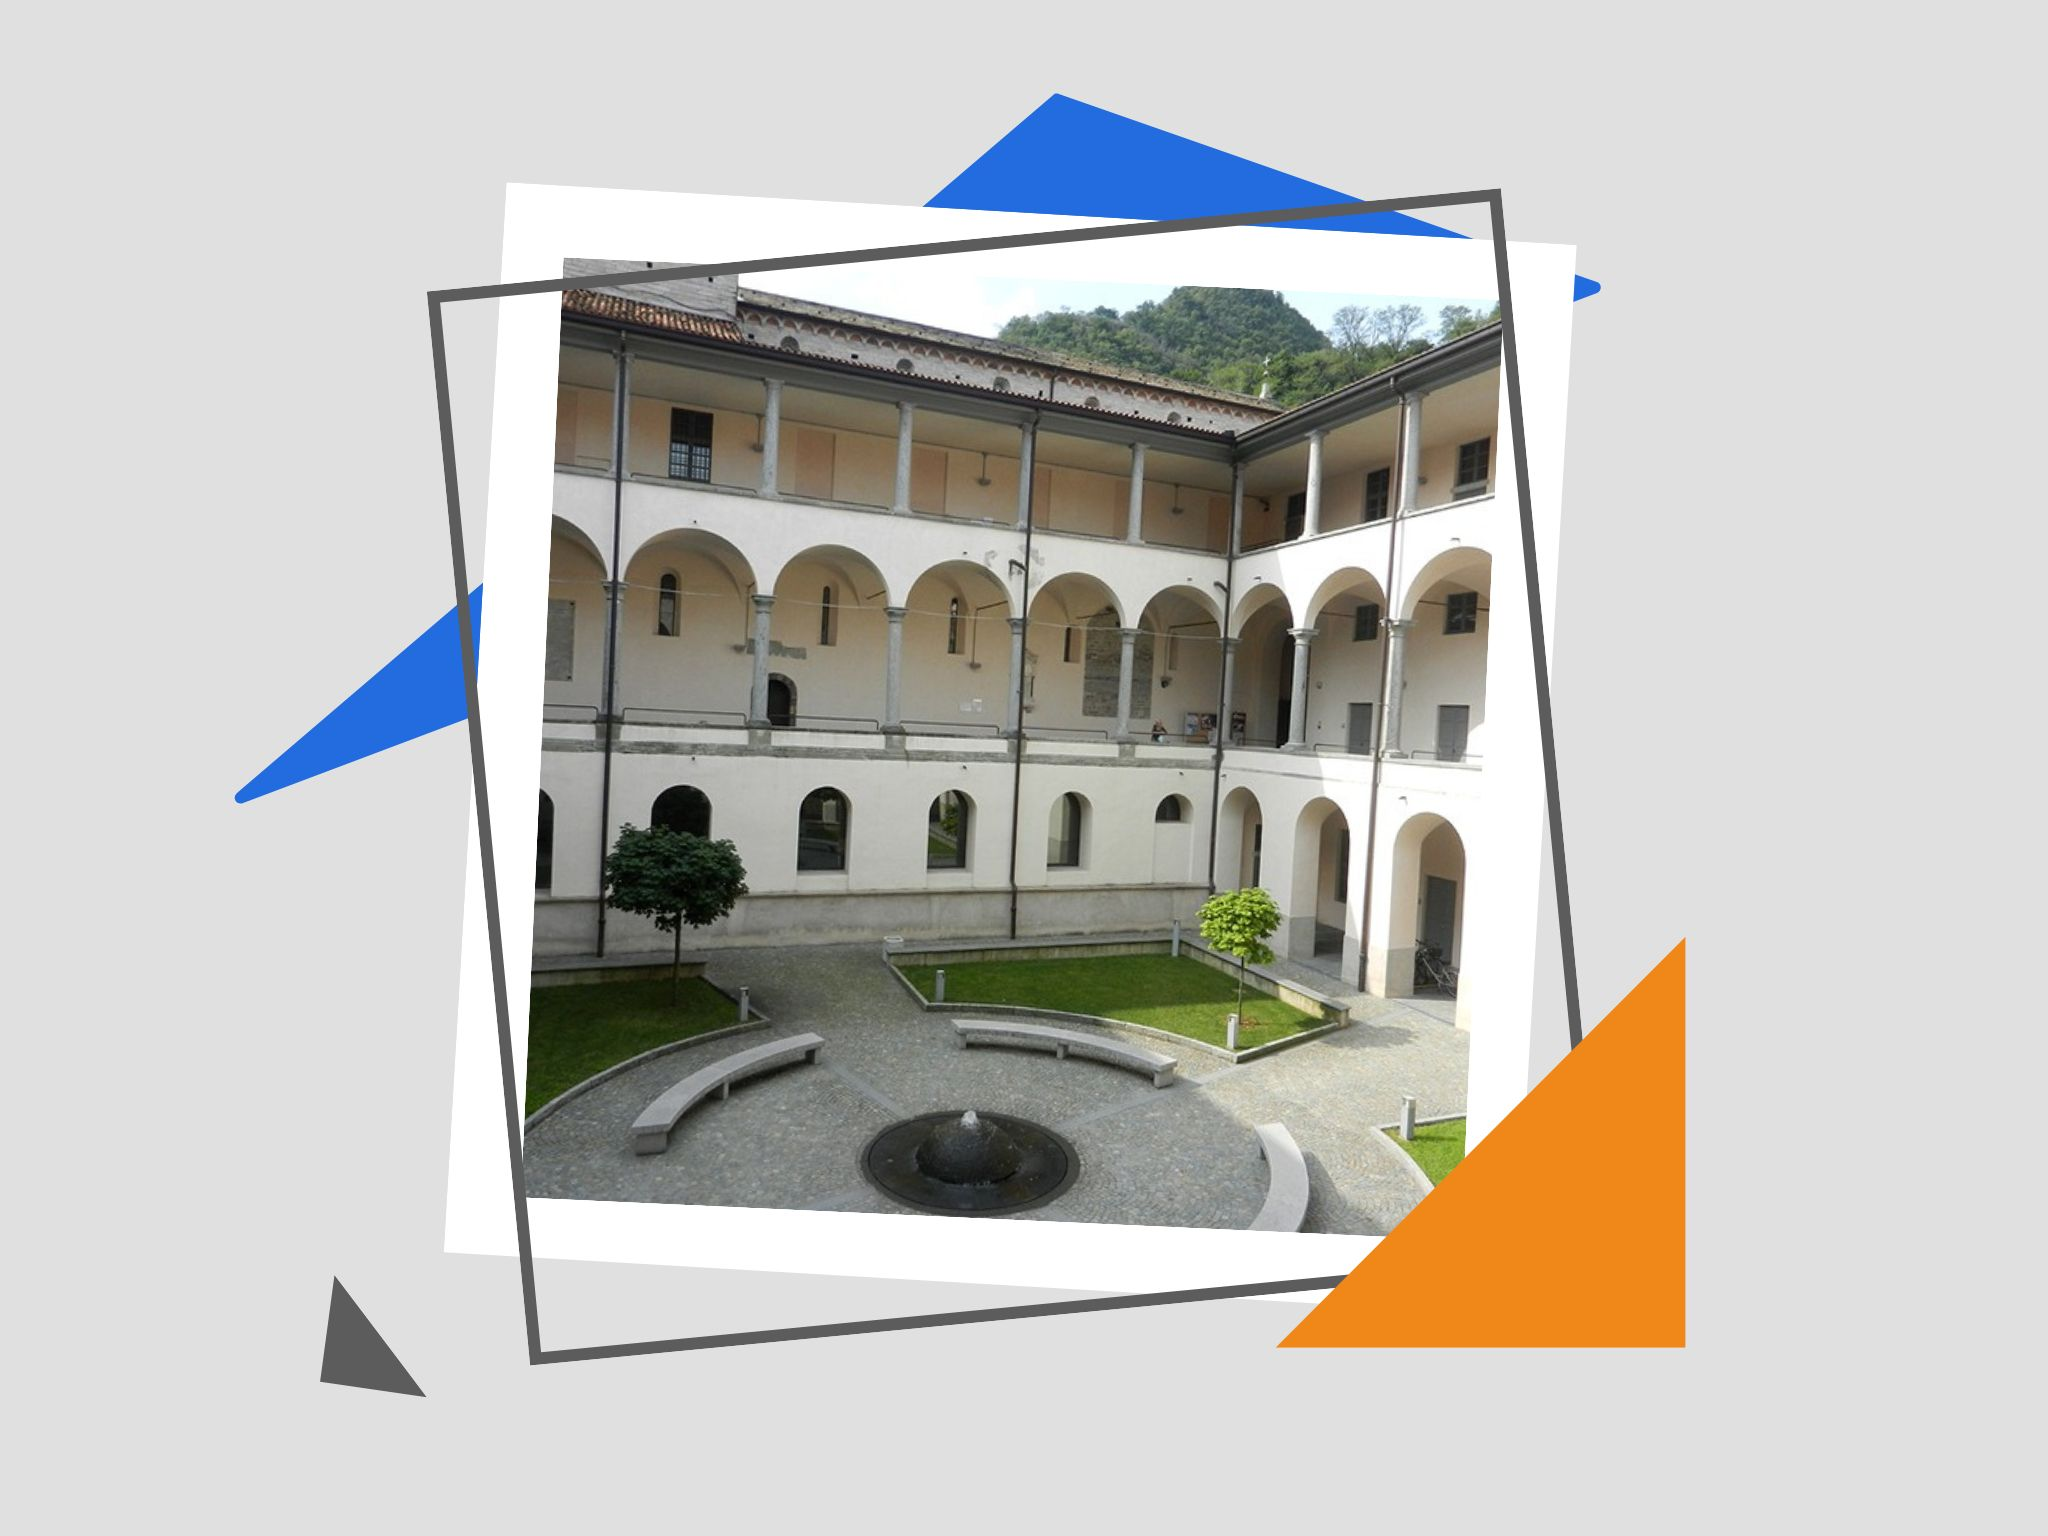
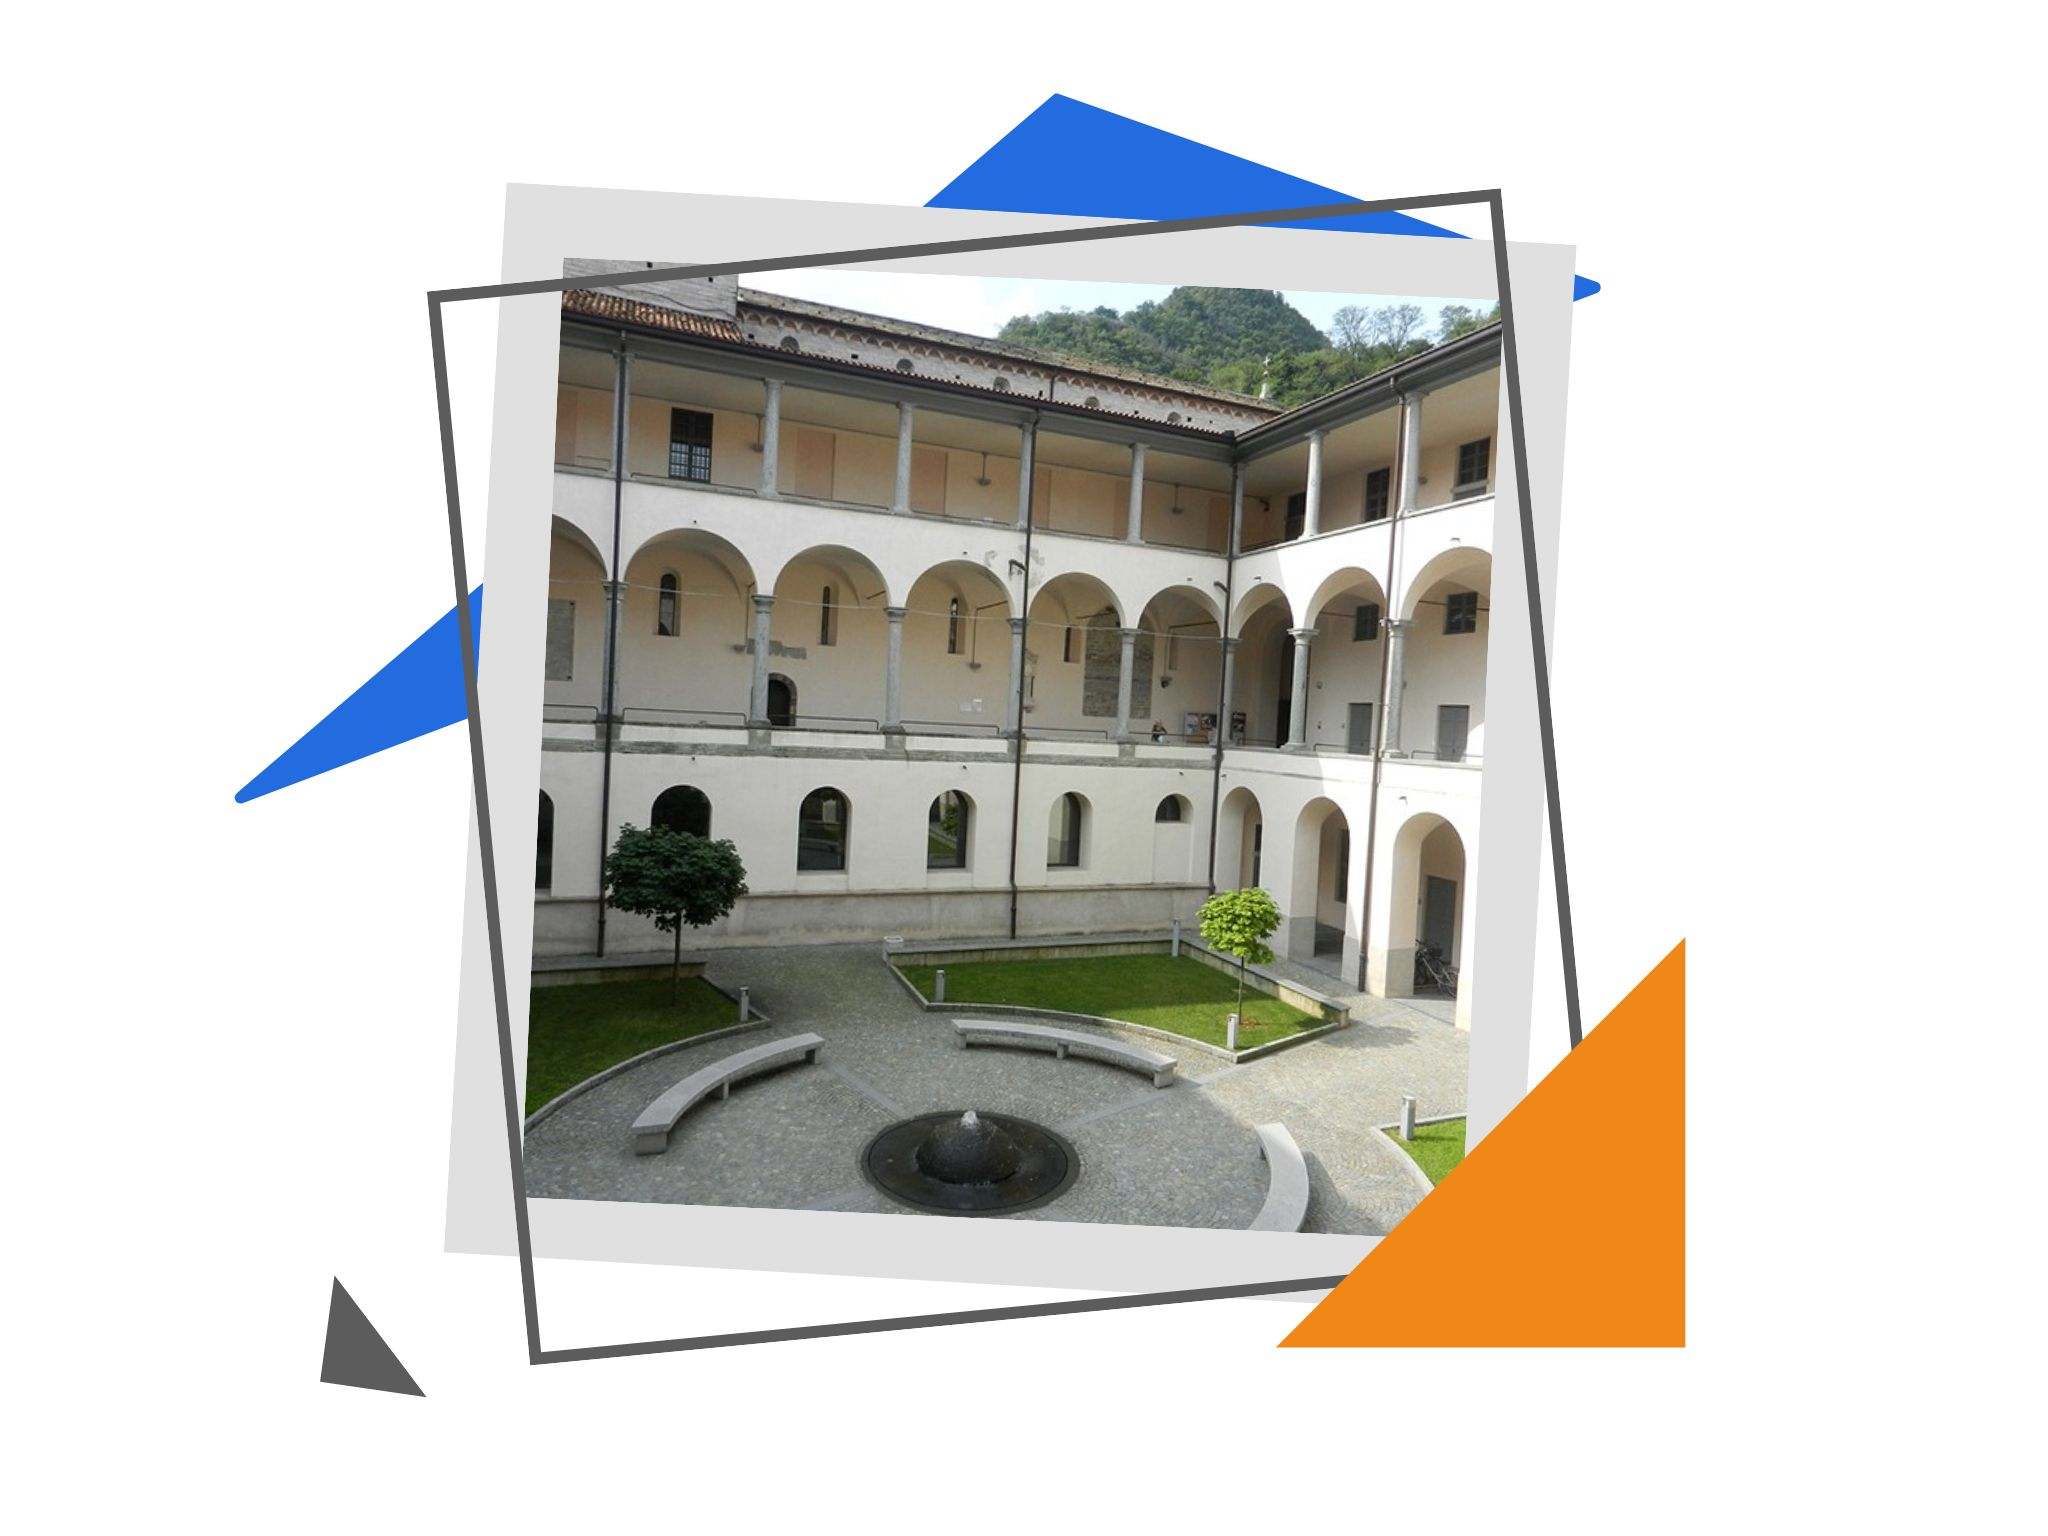
feat: new img and colors

diff --git a/innovazione.11ty.js b/innovazione.11ty.js
@@ -34,13 +34,13 @@ module.exports = class {
             </section>
 
             <!-- counter gradient -->
-            <section class="pt-5 py-5 bg-grad all-text-white">
+            <section class="pt-5 py-5 bg-light">
                 <div class="container">
                     <div class="row">
                         <!-- count item -->
                         <div class="col-md-4 col-6 mb-4 mb-md-0">
                             <div class="text-center">
-                                <i class="display-6 ti-write"></i>
+                                <i class="text-grad display-6 ti-write"></i>
                                 <h2 class="fw-bold mt-2 mb-0 purecounter"  data-purecounter-start="0" data-purecounter-delay="10" data-purecounter-duration="1" data-purecounter-end="5257">0</h2>
                                 <p class="mb-0">Linee di codice</p>
                             </div>
@@ -48,7 +48,7 @@ module.exports = class {
                         <!-- count item -->
                         <div class="col-md-4 col-6 mb-4 mb-md-0">
                             <div class="text-center">
-                                <i class="display-6 ti-marker"></i>
+                                <i class="text-grad display-6 ti-marker"></i>
                                 <h2 class="fw-bold mt-2 mb-0 purecounter" data-purecounter-start="0" data-purecounter-delay="10" data-purecounter-duration="1" data-purecounter-end="13">0</h2>
                                 <p class="mb-0">Progetti di tesi</p>
                             </div>
@@ -56,7 +56,7 @@ module.exports = class {
                         <!-- count item -->
                         <div class="col-md-4 col-6 mb-4 mb-md-0">
                             <div class="text-center">
-                                <i class="display-6 ti-face-smile"></i>
+                                <i class="text-grad display-6 ti-user"></i>
                                 <h2 class="fw-bold mt-2 mb-0 purecounter" data-purecounter-start="0" data-purecounter-delay="10" data-purecounter-duration="1" data-purecounter-end="2">0</h2>
                                 <p class="mb-0">Team incubati</p>
                             </div>
@@ -88,7 +88,7 @@ module.exports = class {
             <!-- ======================= Università End -->    
 
             <!-- ======================= Progetti Open Source -->
-            <section id="open-source">
+            <section id="open-source" class="bg-light">
                 <div class="container">
                     <div class="row">
                         <div class="col-sm-12 text-center mb-4">
